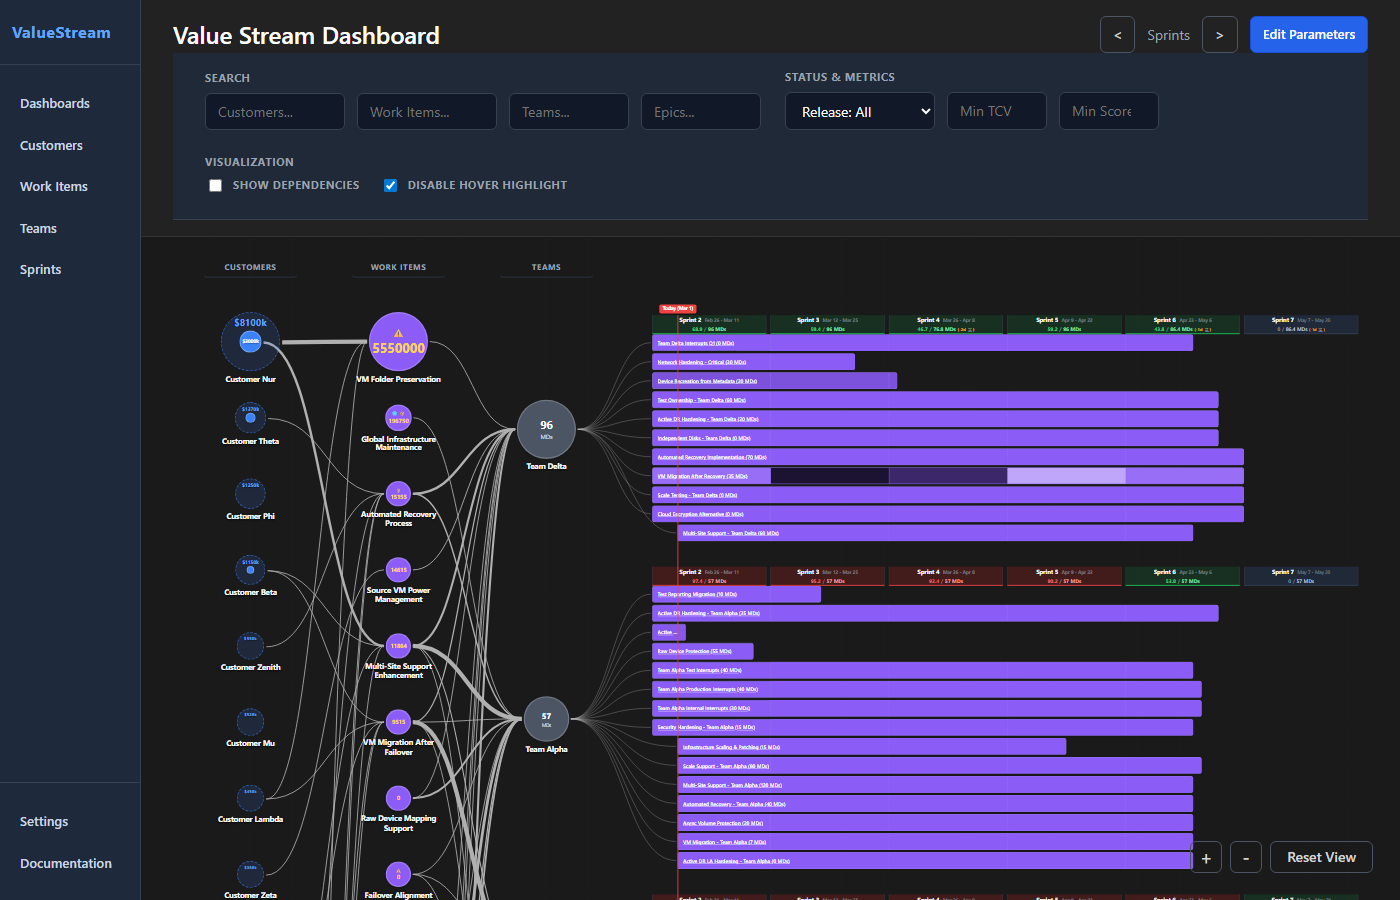
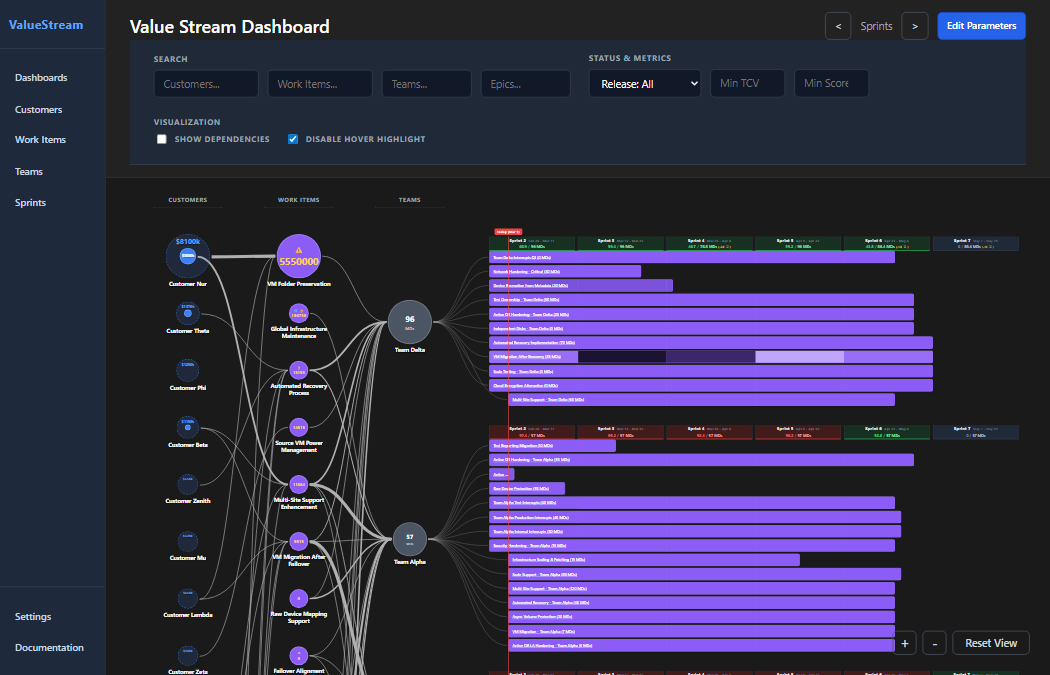
docs: use markdown image tags and recapture screenshots at 75% scale

diff --git a/web-client/take-screenshots.js b/web-client/take-screenshots.js
@@ -8,7 +8,9 @@ if (!fs.existsSync(imageDir)) {
 
 (async () => {
   const browser = await chromium.launch({ headless: true });
-  const context = await browser.newContext({ viewport: { width: 1400, height: 900 } });
+  // Set deviceScaleFactor to 0.75 to scale down the output resolution to 75%
+  // while maintaining the 1400x900 viewport layout
+  const context = await browser.newContext({ viewport: { width: 1400, height: 900 }, deviceScaleFactor: 0.75 });
   const page = await context.newPage();
 
   console.log('Taking screenshot of Dashboard...');
@@ -32,5 +34,5 @@ if (!fs.existsSync(imageDir)) {
   await page.screenshot({ path: `${imageDir}/workitem-detail.png` });
 
   await browser.close();
-  console.log('All screenshots taken successfully!');
+  console.log('All screenshots taken successfully at 75% scale!');
 })();

diff --git a/web-client/public/USER_GUIDE.md b/web-client/public/USER_GUIDE.md
@@ -33,7 +33,7 @@ Both Customers and Work Items feature tabbed detail pages for better organizatio
 
 #### Customer Detail Page
 
-<img src="./images/customer-detail.png" alt="Customer Detail" width="800" />
+![Customer Detail](images/customer-detail.png)
 
 - **Customer Details Section:** Displays basic info like Name, Actual TCV, and Potential TCV.
 - **Updating Actual TCV:** The "Actual Existing TCV" value is protected. To change it, click **"Update TCV"**. This triggers a lifecycle process:
@@ -45,7 +45,7 @@ Both Customers and Work Items feature tabbed detail pages for better organizatio
 
 #### Work Item Detail Page
 
-<img src="./images/workitem-detail.png" alt="Work Item Detail" width="800" />
+![Work Item Detail](images/workitem-detail.png)
 
 - **Work Item Details Section:** Edit the name, total man-day estimates, and release target.
 - **Tabs:**
